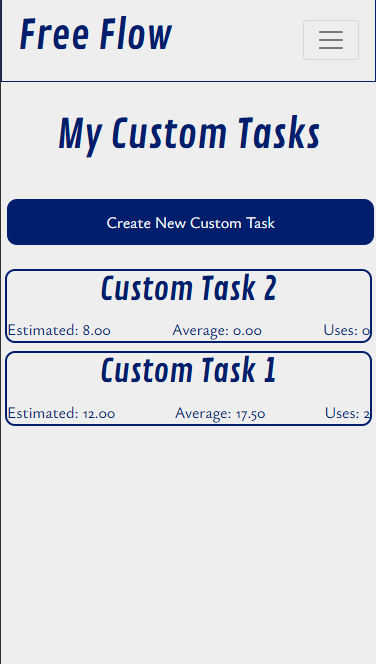
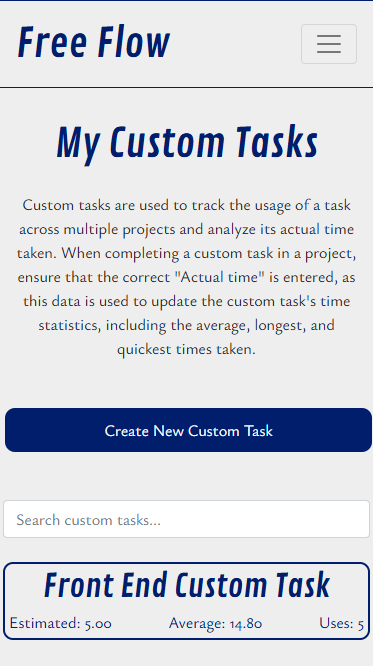
Add search bar function to custom tasks and readme.

diff --git a/src/pages/customtasks/CustomTasksPage.js b/src/pages/customtasks/CustomTasksPage.js
@@ -1,6 +1,6 @@
 import React, { useEffect, useState } from "react";
 
-import { Row, Col, Spinner, Alert } from "react-bootstrap";
+import { Row, Col, Spinner, Alert, Form } from "react-bootstrap";
 import { Link } from "react-router-dom/cjs/react-router-dom";
 import { axiosReq } from "../../api/axiosDefaults";
 
@@ -15,11 +15,12 @@ const CustomTasksPage = ({ filter = "" }) => {
     const [customTasks, setCustomTasks] = useState({});
     const [isLoaded, setIsLoaded] = useState(false);
     const [errors, setErrors] = useState({});
+    const [query, setQuery] = useState("");
 
     useEffect(() => {
         const fetchCustomTasks = async () => {
             try {
-                const { data } = await axiosReq.get("/custom_tasks");
+                const { data } = await axiosReq.get(`/custom_tasks/?${filter}search=${query}`);
                 setCustomTasks(data);
                 setIsLoaded(true);
             } catch (err) {
@@ -36,7 +37,7 @@ const CustomTasksPage = ({ filter = "" }) => {
         };
         setIsLoaded(false);
         fetchCustomTasks();
-    }, [filter]);
+    }, [filter, query]);
 
     return isLoaded ? (
         <Row className="h-100 d-flex justify-content-center">
@@ -56,6 +57,16 @@ const CustomTasksPage = ({ filter = "" }) => {
                         Create New Custom Task
                     </div>
                 </Link>
+
+                <Form className="mb-4" onSubmit={(event) => event.preventDefault()}>
+                    <Form.Control
+                        type="text"
+                        placeholder="Search custom tasks..."
+                        value={query}
+                        onChange={(event) => setQuery(event.target.value)}
+                    />
+                </Form>
+
                 {customTasks.length ? (
                     customTasks.map((task) => {
                         return <CustomTaskPreview key={task.id} {...task} />;

diff --git a/README.md b/README.md
@@ -394,14 +394,18 @@ The task details page displays the user-entered task data, as well as the create
 - [Task page desktop](/docmedia/screenshots/task-page-desk.png)
 
 #### Custom tasks page
-The custom tasks page allows the user to view a list of all their custom tasks and create new ones. Similar to the project and task previews, the custom task preview displays basic task information in the list. Each preview can be clicked to navigate to the custom task details page. This consistent use of custom task previews creates a familiar experience across the app, allowing users to quickly and easily view their custom tasks.
+The Custom Tasks page allows users to view a list of all their custom tasks and create new ones. Similar to the project and task previews, each custom task preview displays basic task information in the list. Clicking on a preview navigates the user to the Custom Task Details page.
 
-![Custom tasks list empty mobile](/docmedia/screenshots/custom-tasks-list-empty-mob.png) ![Custom tasks list populated mobile]()
+This consistent use of previews creates a familiar experience across the app, enabling users to quickly and easily access their custom tasks. The Custom Tasks page is also the only page with an instructional section explaining how custom tasks work. While I aimed to keep explanations minimal to ensure an intuitive and self-explanatory experience, I included this instruction to provide extra clarity.
+
+Later in development, I added a search bar to the Custom Tasks page. This feature allows users to search for text within custom task titles, making it easier to locate specific tasks in a large list. In the future, I plan to expand this functionality to the Projects and Tasks pages, but I first wanted to test its implementation with custom tasks before applying it more broadly.
+
+![Custom tasks list empty mobile](/docmedia/screenshots/custom-tasks-list-empty-mob.png) ![Custom tasks list populated mobile](/docmedia/screenshots/custom-tasks-list-populated-mob.png)
 
 - [Custom tasks list empty tablet](/docmedia/screenshots/custom-tasks-list-empty-tab.png)
-- [Custom tasks list populated tabler]()
+- [Custom tasks list populated tablet](/docmedia/screenshots/custom-tasks-list-populated-tab.png)
 - [Custom tasks list empty desktop](/docmedia/screenshots/custom-tasks-list-empty-desk.png)
-- [Custom tasks list populated desktop]()
+- [Custom tasks list populated desktop](/docmedia/screenshots/custom-tasks-list-populated-desk.png)
 
 #### Create custom task form
 To create a custom task, only three fields are required: a title, description, and estimated time. These are the only template-based fields necessary for reusable tasks, as the due date and actual times are project- and task-specific. The main function of custom tasks relies on the actual time data from completed tasks, which is why the time statistic fields cannot be manually updated by the user. This streamlined approach allows users to quickly and easily add new custom tasks with no unnecessary or overcomplicated information required, promoting greater versatility and a wider range of use cases. When a new custom task is created, the user is redirected to the custom task's details page. This confirms that the new custom task has been added to the custom tasks list and that the data is correct. If any required data is missing or incorrect, the user is shown an error alert below the appropriate input field.
